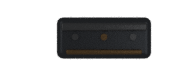
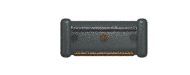
Unify reactor clamp material and single-route read order

Changed region(s): [[0.2895, 0.2133, 0.8158, 0.8]]

diff --git a/space-battleship/assets/ui/reactor/b01/generate_modular_pipes.py b/space-battleship/assets/ui/reactor/b01/generate_modular_pipes.py
@@ -3,6 +3,7 @@
 Source coordinates are 1187x1326 pixels. The four paths differ only in their
 socket/tangent contract; material, section, collar and UV placement are shared.
 Run with Blender 4.3: blender -b -t 2 --python generate_modular_pipes.py
+Use -- --only-clamps to re-render only the two side grips.
 """
 from __future__ import annotations
 
@@ -149,9 +150,14 @@ def clamp_half(name, start_x):
     # Their three-dimensional feet/rails live above the sphere's front face;
     # the runtime translates only these two pieces along their guide axis.
     center_x = start_x + (104 if name.endswith("right") else 90)
-    beveled_plate(name+"_foot", center_x,323,94,41,17,40,MATS["metal"],6)
-    beveled_plate(name+"_spine", center_x,312,86,8,5,51,MATS["ridge"],2)
-    beveled_plate(name+"_contact", center_x,337,76,5,4,52,MATS["gold"],1.5)
+    local_softbox(name+" polished face key", (center_x,-250,190), 36000, 95)
+    # Match the machined containment hoop at the visible grip point. The
+    # deeper gunmetal guide is a recess, not the face of a black rectangle.
+    beveled_plate(name+"_foot", center_x,323,82,34,18,40,MATS["gimbal"],8)
+    beveled_plate(name+"_guide", center_x,314,64,5,3,50,MATS["ridge"],2)
+    beveled_plate(name+"_contact", center_x,339,61,4,3,52,MATS["gold"],1.5)
+    for cheek_x in (center_x-38, center_x+38):
+        beveled_plate(name+"_cheek", cheek_x,323,11,39,20,48,MATS["gimbal_plate"],4)
     for cx in (center_x-29, center_x, center_x+29):
         bpy.ops.mesh.primitive_cylinder_add(vertices=12, radius=3.4, depth=4,
                                             location=(cx,-322,52))
@@ -288,7 +294,8 @@ def depth_material(base, front):
 
 setup()
 only_core = "--only-core" in sys.argv
-for pipe_id, anchors in ({} if only_core else PATHS).items():
+only_clamps = "--only-clamps" in sys.argv
+for pipe_id, anchors in ({} if only_core or only_clamps else PATHS).items():
     generated = set(bpy.data.objects)
     build_pipe(pipe_id, anchors)
     parts = set(bpy.data.objects)-generated
@@ -308,7 +315,7 @@ for side, start_x in (("left",395),("right",603)):
     bpy.ops.render.render(write_still=True)
     for ob in set(bpy.data.objects)-generated:
         bpy.data.objects.remove(ob, do_unlink=True)
-for frame in range(12):
+for frame in range(0 if only_clamps else 12):
     generated = set(bpy.data.objects)
     core_gimbal(2*math.pi*frame/12)
     parts = set(bpy.data.objects)-generated

diff --git a/space-battleship/assets/ui/reactor/b01/README.md b/space-battleship/assets/ui/reactor/b01/README.md
@@ -2,7 +2,7 @@
 
 Current implementation: `src/ui/reactor_scene.gd` + `src/ui/reactor_stage.gd` on `implement/reactor-centered-godot`. The active delivery/status is [the B01 entry](../../../../docs/verification/reactor-centered-godot/evidence/b01-redesign/README.md); independent visual review remains open. Earlier whole-plate shader and ImageGen variants remain historical assets and do not define the running composition.
 
-The running stage uses separate `modular-bay-background.png`, `modular-core.png`, four `modular-{weapons,defence,smelting,condensation}.png` device surfaces, eight tightly cropped physical pipe shell/front layers, twelve paired rear/front gimbal frames, and two side clamp sprites. `modular-core-unbanded-source.png` is the isolated transparent core source, edited from the original core to remove the baked cross-sphere belt; the former sheet is retained as `modular-core-source.png`. The paired Blender gimbal renders bracket that globe from behind and in front, while the actuating clamps sit on its outer sockets. `reactor_pipe_view.gd` builds a separate arc-length lumen mesh on each route; `modular-pipe-lumen.gdshader` moves light packets from core socket to device socket. `modular-core-field.gdshader` generates constrained core events within the sphere, and each `reactor_module_view.gd` owns its local work effect. Accepted Owner load gates these effects; zero, pause, hidden and restart use the stage clock. No text, values, buttons, slider hit areas or economic logic are baked into these images.
+The running stage uses separate `modular-bay-background.png`, `modular-core.png`, four `modular-{weapons,defence,smelting,condensation}.png` device surfaces, eight tightly cropped physical pipe shell/front layers, twelve paired rear/front gimbal frames, and two side clamp sprites. `modular-core-unbanded-source.png` is the isolated transparent core source, edited from the original core to remove the baked cross-sphere belt; the former sheet is retained as `modular-core-source.png`. The paired Blender gimbal renders bracket that globe from behind and in front, while the actuating clamps sit on its outer sockets. The clamps use the same machined silver face, recessed guide and brass contact language as the moving hoop; they can be rendered alone with `-- --only-clamps`, then cropped to the source rectangles in the assembly script. `reactor_pipe_view.gd` builds a separate arc-length lumen mesh on each route; `modular-pipe-lumen.gdshader` moves light packets from core socket to device socket. `modular-core-field.gdshader` generates constrained core events within the sphere, and each `reactor_module_view.gd` owns its local work effect. Accepted Owner load gates these effects; zero, pause, hidden and restart use the stage clock. No text, values, buttons, slider hit areas or economic logic are baked into these images.
 
 Source coordinate system is 1187×1326, x right/y down; the visible stage is 808×835 below the 65px host rail. `generate_modular_pipes.py` shares tube section/material/collar construction across four independent endpoint/tangent paths and renders its pipe layers, clamps and 12 paired gimbal frames in Blender 4.3. `assemble_modular_surfaces.sh` crops the device sheets and generated layers, and copies the unbanded core source; it checks full Blender source canvas sizes before cropping, so rerunning it on already cropped output fails visibly. `modular-pipe-bounds.tsv` records the final pipe crop origins. Render command from repository root: `blender -b -t 2 --python assets/ui/reactor/b01/generate_modular_pipes.py`, followed by `bash assets/ui/reactor/b01/assemble_modular_surfaces.sh`. Check resulting transparent bounds and Godot imports at actual 1× size before accepting changed geometry.
 
